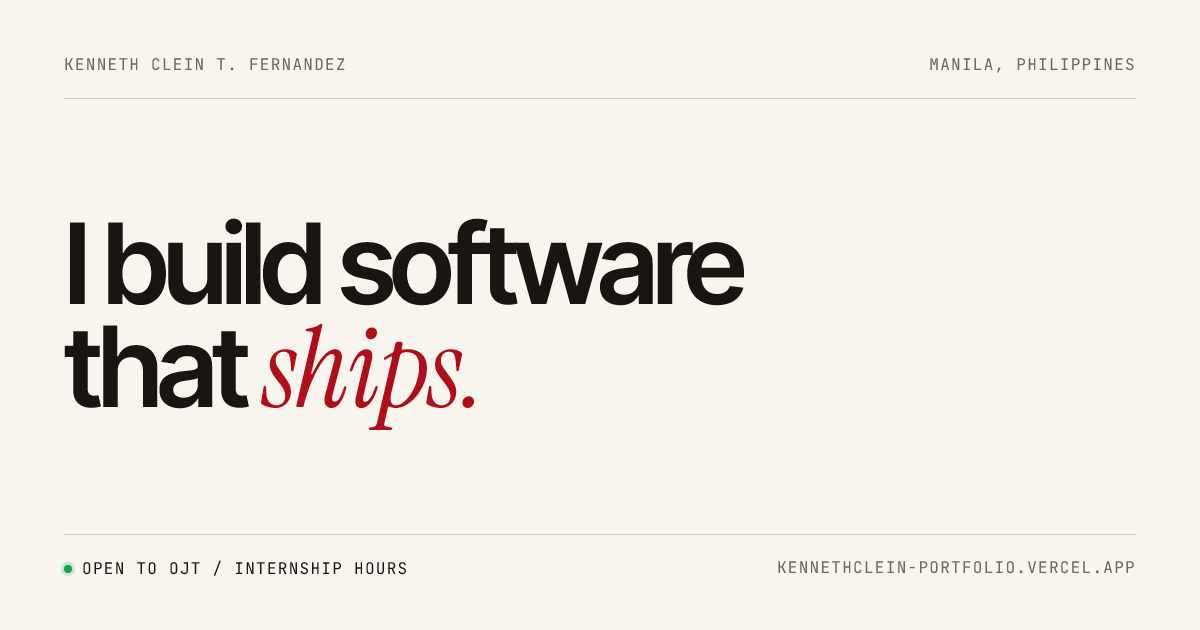
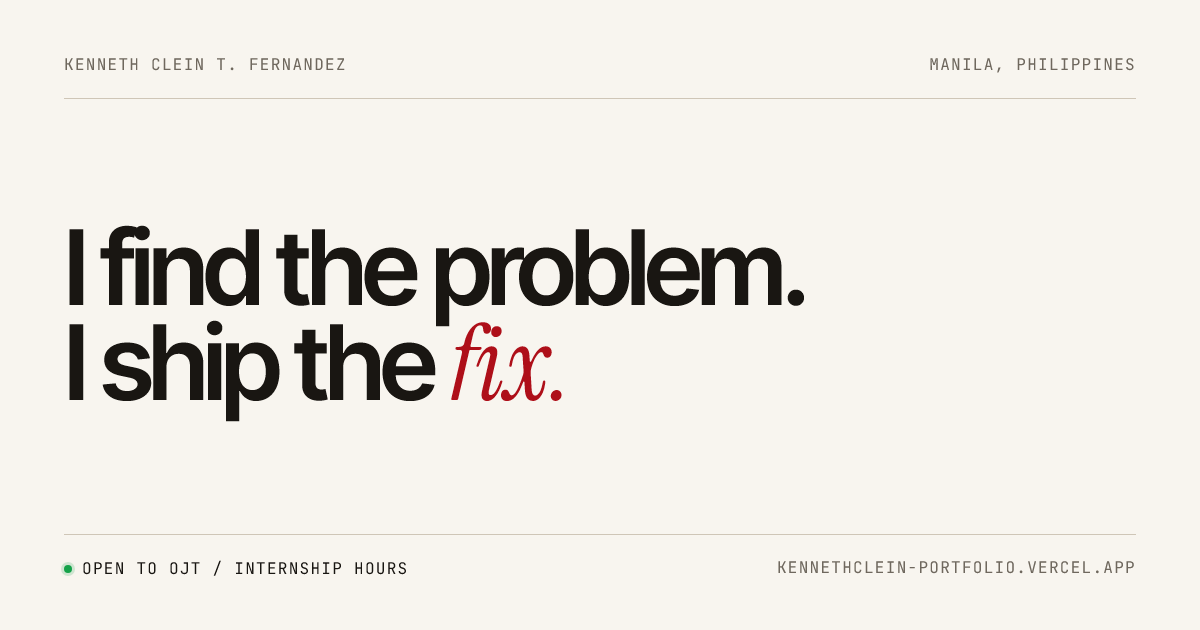
feat: lead with the problem, then the fix
- Rewrite the hero, About and all four project bodies to open with the
  problem, then the build. "I" diagnoses, "we" ship, solo stays "I".
- Give the problem the serif italic voice and group Role/Proof into one
  ruled receipt below the story, instead of scattering the evidence.
- Fade the stack strip at the edges in motion; under reduced motion it
  wraps cleanly and never starts a line with a stray separator.
- Regenerate the OG card from the new headline and record the copy and
  static-composition decisions in PRODUCT.md.

Changed region(s): [[0.0308, 0.3317, 0.6783, 0.6937]]

diff --git a/src/styles/global.css b/src/styles/global.css
@@ -323,6 +323,7 @@ img {
 	max-width: var(--measure);
 	font-size: var(--step-1);
 	color: var(--ink-2);
+	text-wrap: pretty;
 }
 
 .hero__side {
@@ -489,14 +490,24 @@ img {
 	}
 }
 
+/* Role and proof as one receipt under the story, ruled off from it. */
+.project__facts {
+	margin-top: 1.35rem;
+	padding-top: 0.9rem;
+	border-top: 1px solid var(--line);
+}
+
 .project__role,
 .project__proof {
 	display: flex;
 	flex-wrap: wrap;
 	gap: 0.35rem 0.55rem;
-	margin-top: 0.85rem;
 	font-size: 0.875rem;
 	color: var(--ink-2);
+}
+
+.project__proof {
+	margin-top: 0.45rem;
 }
 
 .project__role span,
@@ -508,10 +519,25 @@ img {
 	color: var(--ink-3);
 }
 
-.project__body {
+/* The problem is the lead: serif italic is the page's voice for the human
+   situation, the sans body underneath is the engineering answer. */
+.project__problem {
 	margin-top: 1rem;
 	max-width: 34rem;
+	font-family: var(--serif);
+	font-style: italic;
+	font-size: clamp(1.125rem, 1.3vw, 1.25rem);
+	line-height: 1.42;
+	letter-spacing: -0.005em;
+	color: var(--ink);
+	text-wrap: pretty;
+}
+
+.project__body {
+	margin-top: 0.65rem;
+	max-width: 34rem;
 	color: var(--ink-2);
+	text-wrap: pretty;
 }
 
 .project__stack {
@@ -683,6 +709,27 @@ img {
 	}
 }
 
+/* The loop fades at the edges instead of cutting. Under reduced motion the
+   line is static, so it shows without the mask. */
+@media (prefers-reduced-motion: no-preference) {
+	.strip {
+		-webkit-mask-image: linear-gradient(
+			90deg,
+			transparent,
+			#000 2.5rem,
+			#000 calc(100% - 2.5rem),
+			transparent
+		);
+		mask-image: linear-gradient(
+			90deg,
+			transparent,
+			#000 2.5rem,
+			#000 calc(100% - 2.5rem),
+			transparent
+		);
+	}
+}
+
 /* -------------------------------------------------------------------------
    About
 ------------------------------------------------------------------------- */
@@ -717,6 +764,7 @@ img {
 .about__text p {
 	max-width: 38rem;
 	color: var(--ink-2);
+	text-wrap: pretty;
 }
 
 .about__text p + p {
@@ -1119,11 +1167,32 @@ img {
 		transform: none;
 	}
 
-	/* The strip stops and folds into a static line instead of scrolling. */
+	/* The strip stops and folds into a static block instead of scrolling. */
 	.strip__in {
 		animation: none;
 		width: auto;
 		flex-wrap: wrap;
+	}
+
+	.strip__set {
+		flex-wrap: wrap;
+		row-gap: 0.35rem;
+	}
+
+	/* Keep each tool and its separator together, so a wrapped line never
+	   starts with a stray accent dot. */
+	.strip__set > span {
+		padding-right: 0;
+	}
+
+	.strip__set > i {
+		display: none;
+	}
+
+	.strip__set > span:not(:last-of-type)::after {
+		content: '·';
+		padding-inline: 0.55rem;
+		color: var(--accent);
 	}
 
 	.strip__set + .strip__set {
@@ -1245,6 +1314,7 @@ img {
 		gap: 1.25rem;
 	}
 
+	.project__problem,
 	.project__body {
 		max-width: none;
 	}

diff --git a/PRODUCT.md b/PRODUCT.md
@@ -4,8 +4,8 @@ Anchor document for this site. Every later design, copy and audit decision is
 judged against this file. If a change contradicts it, change this file first and
 say why.
 
-Last updated: 2026-10-20 (review pass: role/proof lines, one-row mobile header,
-eager print images, composed OG card, sitemap, type/link/build gates)
+Last updated: 2026-10-20 (problem-first pass: new hero and About copy, project
+problems, serif problem lead, role/proof receipt, static strip wrap)
 
 ---
 
@@ -14,11 +14,11 @@ eager print images, composed OG card, sitemap, type/link/build gates)
 A static personal site for **Kenneth Clein T. Fernandez**, third-year BSIT
 student at San Sebastian College – Recoletos Manila (graduating 2028).
 
-Structure: **one page — a project showcase.** Four projects, each with the
-problem, what was built, the stack and links to the live thing. No case-study
-sub-pages and no long decision write-ups: the owner's call, made 2026-10-20
-after the SPA-plus-case-studies plan was drafted. Depth lives in the linked
-repos and the running software, not in prose.
+Structure: **one page — a project showcase.** Four projects, each leading with
+the problem, then what was built, the role and proof, the stack and links to the
+live thing. No case-study sub-pages and no long decision write-ups: the owner's
+call, made 2026-10-20 after the SPA-plus-case-studies plan was drafted. Depth
+lives in the linked repos and the running software, not in prose.
 
 ## Who reads it
 
@@ -32,13 +32,13 @@ repos and the running software, not in prose.
 
 ## The one impression
 
-**Ships real software.**
+**Finds the problem. Ships the fix.**
 
-Not "AI and automation specialist". In 2026 every applicant claims AI. Very few
-third-years have an app a five-person team shipped, a bot in daily production
-use, and a habit of verifying their own work (CI on every merge, 39-case
-evaluation harness, per-student delivery receipts). The AI work stays on the
-site as proof of depth, not as the headline.
+The proof is that the fix is real software. Not "AI and automation specialist".
+In 2026 every applicant claims AI. Very few third-years have an app a five-person
+team shipped, a bot in daily production use, and a habit of verifying their own
+work (CI on every merge, 39-case evaluation harness, per-student delivery
+receipts). The AI work stays on the site as proof of depth, not as the headline.
 
 ## Success criteria
 
@@ -164,7 +164,7 @@ everything else). Numbers below are stamped with the date they were counted.
 
 | Decision | Chosen | Because |
 | --- | --- | --- |
-| Positioning | Ships real software | Differentiated; AI is table stakes in 2026 |
+| Positioning | Finds the problem, ships the fix — and ships real software | Differentiated; AI is table stakes in 2026. Owner's direction 2026-10-20: lead with the problem, then the build |
 | Framework | Astro, static | Content is static; zero JS by default; explainable unaided, which Next.js is not for the owner |
 | Structure | One page, project showcase | Owner's call 2026-10-20, replacing the one-page-plus-four-case-studies plan. Reverses an earlier decision — the plan document still describes case studies |
 | Contact | Email + copy button, no form, no phone | No backend, no spam surface; the phone stays on the unpublished résumé, never on the page |
@@ -185,6 +185,10 @@ everything else). Numbers below are stamped with the date they were counted.
 | Visual direction | Owned by the owner, decided from references | The builder had picked a direction unasked; corrected 2026-10-20. Three live references captured full-page, compared at `C:\Users\Admin\portfolio-shots\references.html`, direction chosen and recorded in `reference-brief.md` |
 | Project visuals | One screenshot per row, shape chosen by the asset | A wide screenshot fills the column; a portrait one (the Telegram card) sits framed on a panel rather than being cropped into a shape it isn't. Earlier typographic fact panels were retired when real screenshots arrived. Where a screen can't be shown — the DEVCON+ admin dashboard is company-owned — the caption says so instead of substituting a different screen silently |
 | Review fixes | Role + proof lines, one-row mobile header, eager print images, composed OG card, sitemap, type/link/build gates | The 2026-10-20 review found the five-second scan hid the proof, the mobile header wrapped, print dropped two of five images, and the OG card cut the lede mid-sentence. Each fix is in the source; the constraints above still hold |
+| Project copy | Problem → solution → my part. “I” diagnoses, “we” ship; solo stays “I” | Owner's call 2026-10-20. Every project leads with the problem it answers; numbers still come only from the table above |
+| Hero and About | “I find the problem. I ship the fix.”; evidence-first lede; About P2 names the four problems | Owner picked the direction. The headline carries the thesis, the lede carries the proof; the OG card regenerates from the page |
+| Problem lead | Serif italic problem, sans solution, role/proof receipt below the story | Gives the problem the page's editorial voice and keeps the evidence scannable in one block. Owner asked for a look pass; static composition matters because their OS reports reduce |
+| Reduced motion | Automatic: follows the OS, no toggle; the strip wraps instead of clipping in that state | Owner's instruction 2026-10-20. The page is complete and still under reduce; a toggle would add UI for a preference the OS already states |
 
 ## Open questions
 
@@ -241,7 +245,7 @@ build was actually like on the day, not what it was assumed to be.
 | Mobile LCP | **1.6 s** | Chromium, 390×844 DPR 3, 4× CPU, 1.6 Mbps / 750 kbps / 150 ms RTT, cold cache, median of 3; LCP read before scrolling |
 | CLS | 0.000 | same run, whole-page scroll |
 | Transfer | 364 KB over 10 requests (document + 9) | same build, enumerating the resource timeline |
-| DOM nodes | 292 | the role/proof lines and the fourth nav link add 28 |
+| DOM nodes | 300 | the role/proof lines and the fourth nav item add 28; the problem-first pass adds 8 |
 | WCAG contrast | every pair AA or AAA, 0 failures; lowest pair 5.06:1 | `dembrandt <url> --wcag` against the preview build, including hover and focus states; 10 pairs |
 | Tap targets | 32–44 px tall | header, nav and project links 36 px; inline links 32 px; copy button 44 px on coarse pointers |
 | Horizontal overflow | 0 px at 320 / 390 / 768 / 810 / 1024 / 1440, and with root text doubled at all six | Playwright; the root is forced to `32px` for the 200 % text pass |
@@ -256,8 +260,11 @@ options are a smaller hero font payload or a different print strategy — not
 dropping the proof images.
 
 The pre-review build measured 358 KB / 264 DOM nodes; the resource timeline is
-the honest count for both. The 6 KB difference is the eager proof images; the 28
-nodes are the role/proof lines and the fourth nav item.
+the honest count for both. The 6 KB difference is the eager proof images; 28
+nodes were the role/proof lines and the fourth nav item, and the problem-first
+pass adds 8 (four problem paragraphs and four facts wrappers). LCP, CLS and
+transfer were not re-run after the copy pass: the font payload, images and
+motion budget are unchanged, and only the copy and a few CSS rules moved.
 
 **Three scroll-driven effects — the hero title drift, the hero side drift and the
 project `lag` — were measured as dead in the previous build.** They had been
